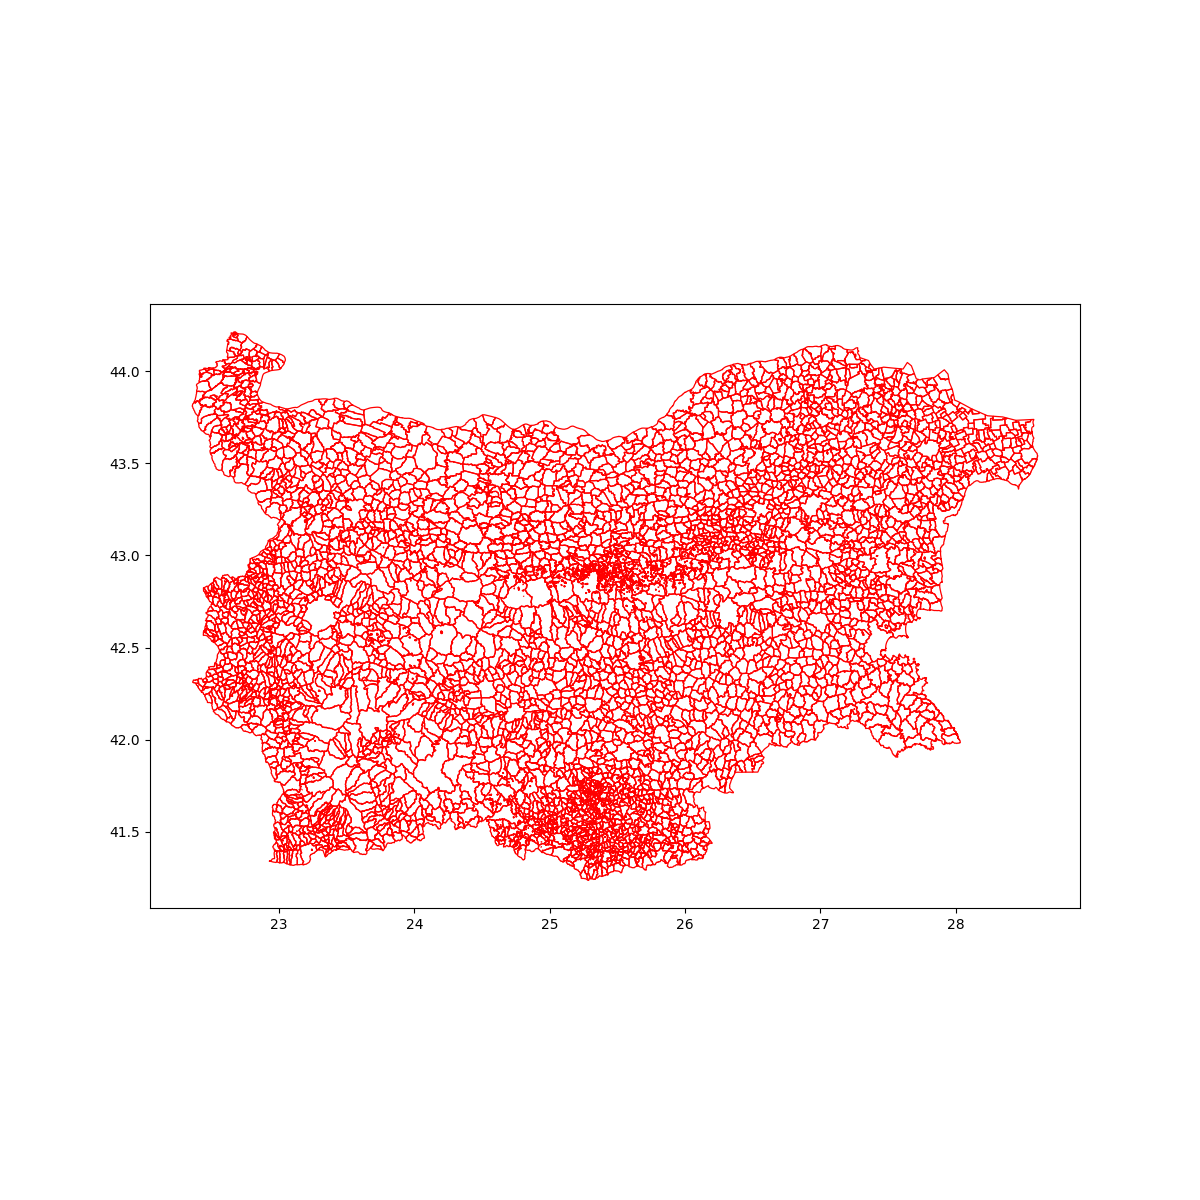
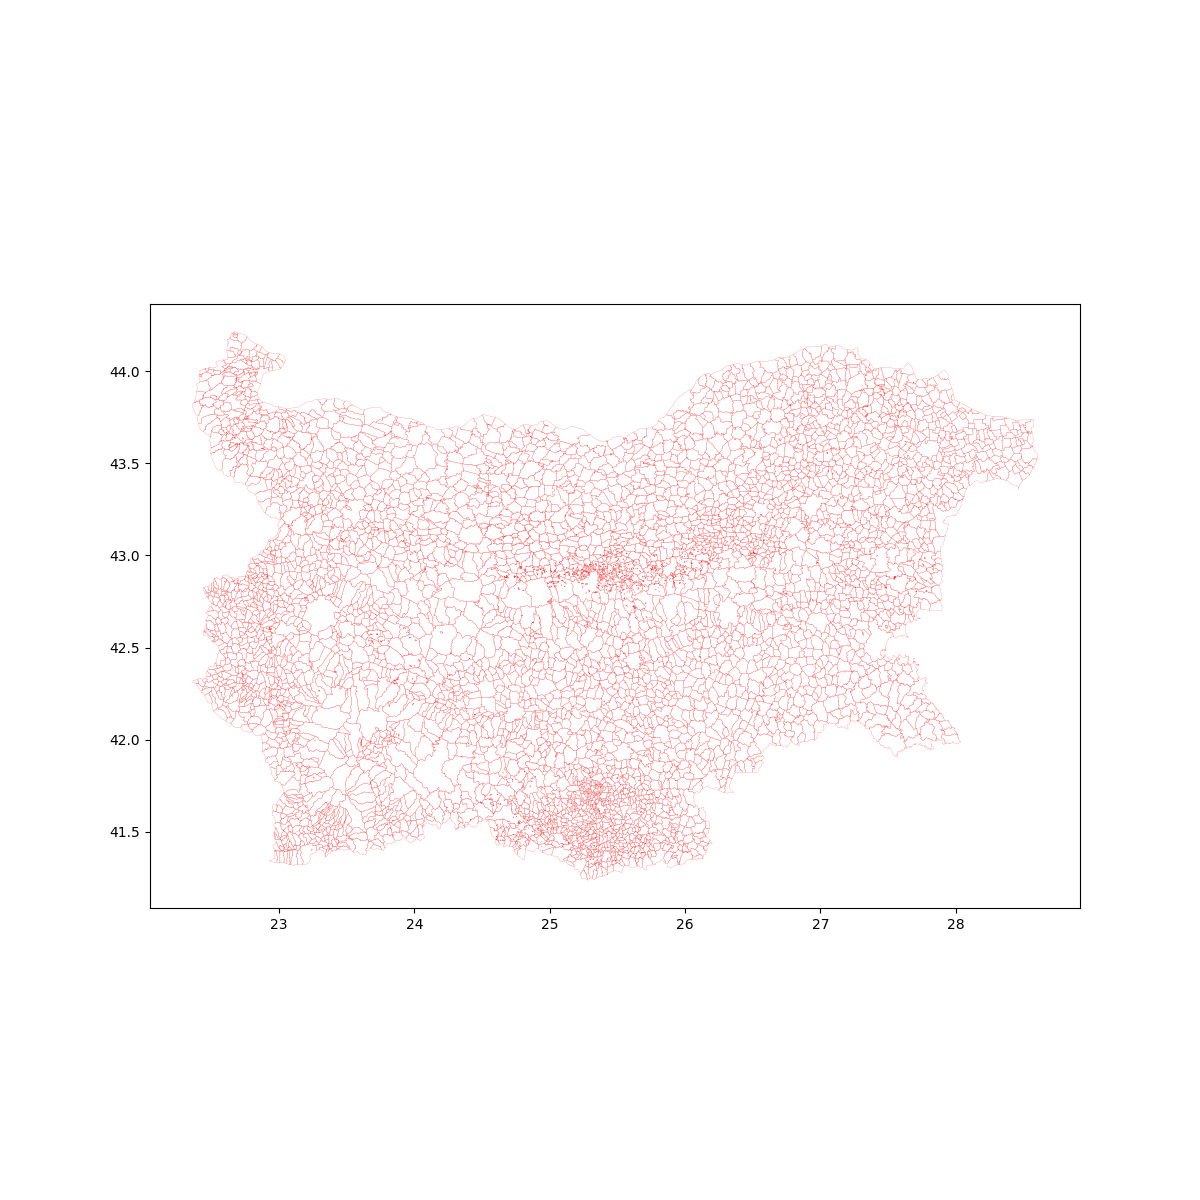
update images

Changed region(s): [[0.1542, 0.2775, 0.8633, 0.74]]

diff --git a/bg_ekatte_lib/init_pipeline.py b/bg_ekatte_lib/init_pipeline.py
@@ -37,11 +37,11 @@ def get_ekatte_bbox(base_shape_path: str) -> List:
     gdf = gpd.read_file(base_shape_path)
     gdf.rename(columns={'EKATTE_1': 'ekatte'}, inplace=True)
 
-    gdf.plot(figsize=(12, 12), facecolor="none", edgecolor='red', lw=0.9)
+    gdf.plot(figsize=(12, 12), facecolor="none", edgecolor='red', lw=0.1)
     plt.savefig('../data/processed/v20230131/srs_ekatte.png')
 
     gdf_wgs84 = gdf.to_crs("EPSG:4326")
-    gdf_wgs84.plot(figsize=(12, 12), facecolor="none", edgecolor='red', lw=0.9)
+    gdf_wgs84.plot(figsize=(12, 12), facecolor="none", edgecolor='red', lw=0.1)
     plt.savefig('../data/processed/v20230131/wgs84_ekatte.png')
 
     gdf_wgs84 = pd.concat([gdf_wgs84, gdf_wgs84.bounds], axis=1)
@@ -49,7 +49,7 @@ def get_ekatte_bbox(base_shape_path: str) -> List:
 
     gdf_wgs84.rename(columns={'geometry': 'srs_geometry', 'ext_geometry': 'geometry'}, inplace=True)
 
-    gdf_wgs84.plot(figsize=(12, 12), facecolor="none", edgecolor='red', lw=0.9)
+    gdf_wgs84.plot(figsize=(12, 12), facecolor="none", edgecolor='red', lw=0.1)
     plt.savefig('../data/processed/v20230131/wgs84_ekatte_ext.png')
 
     del gdf_wgs84["srs_geometry"]
